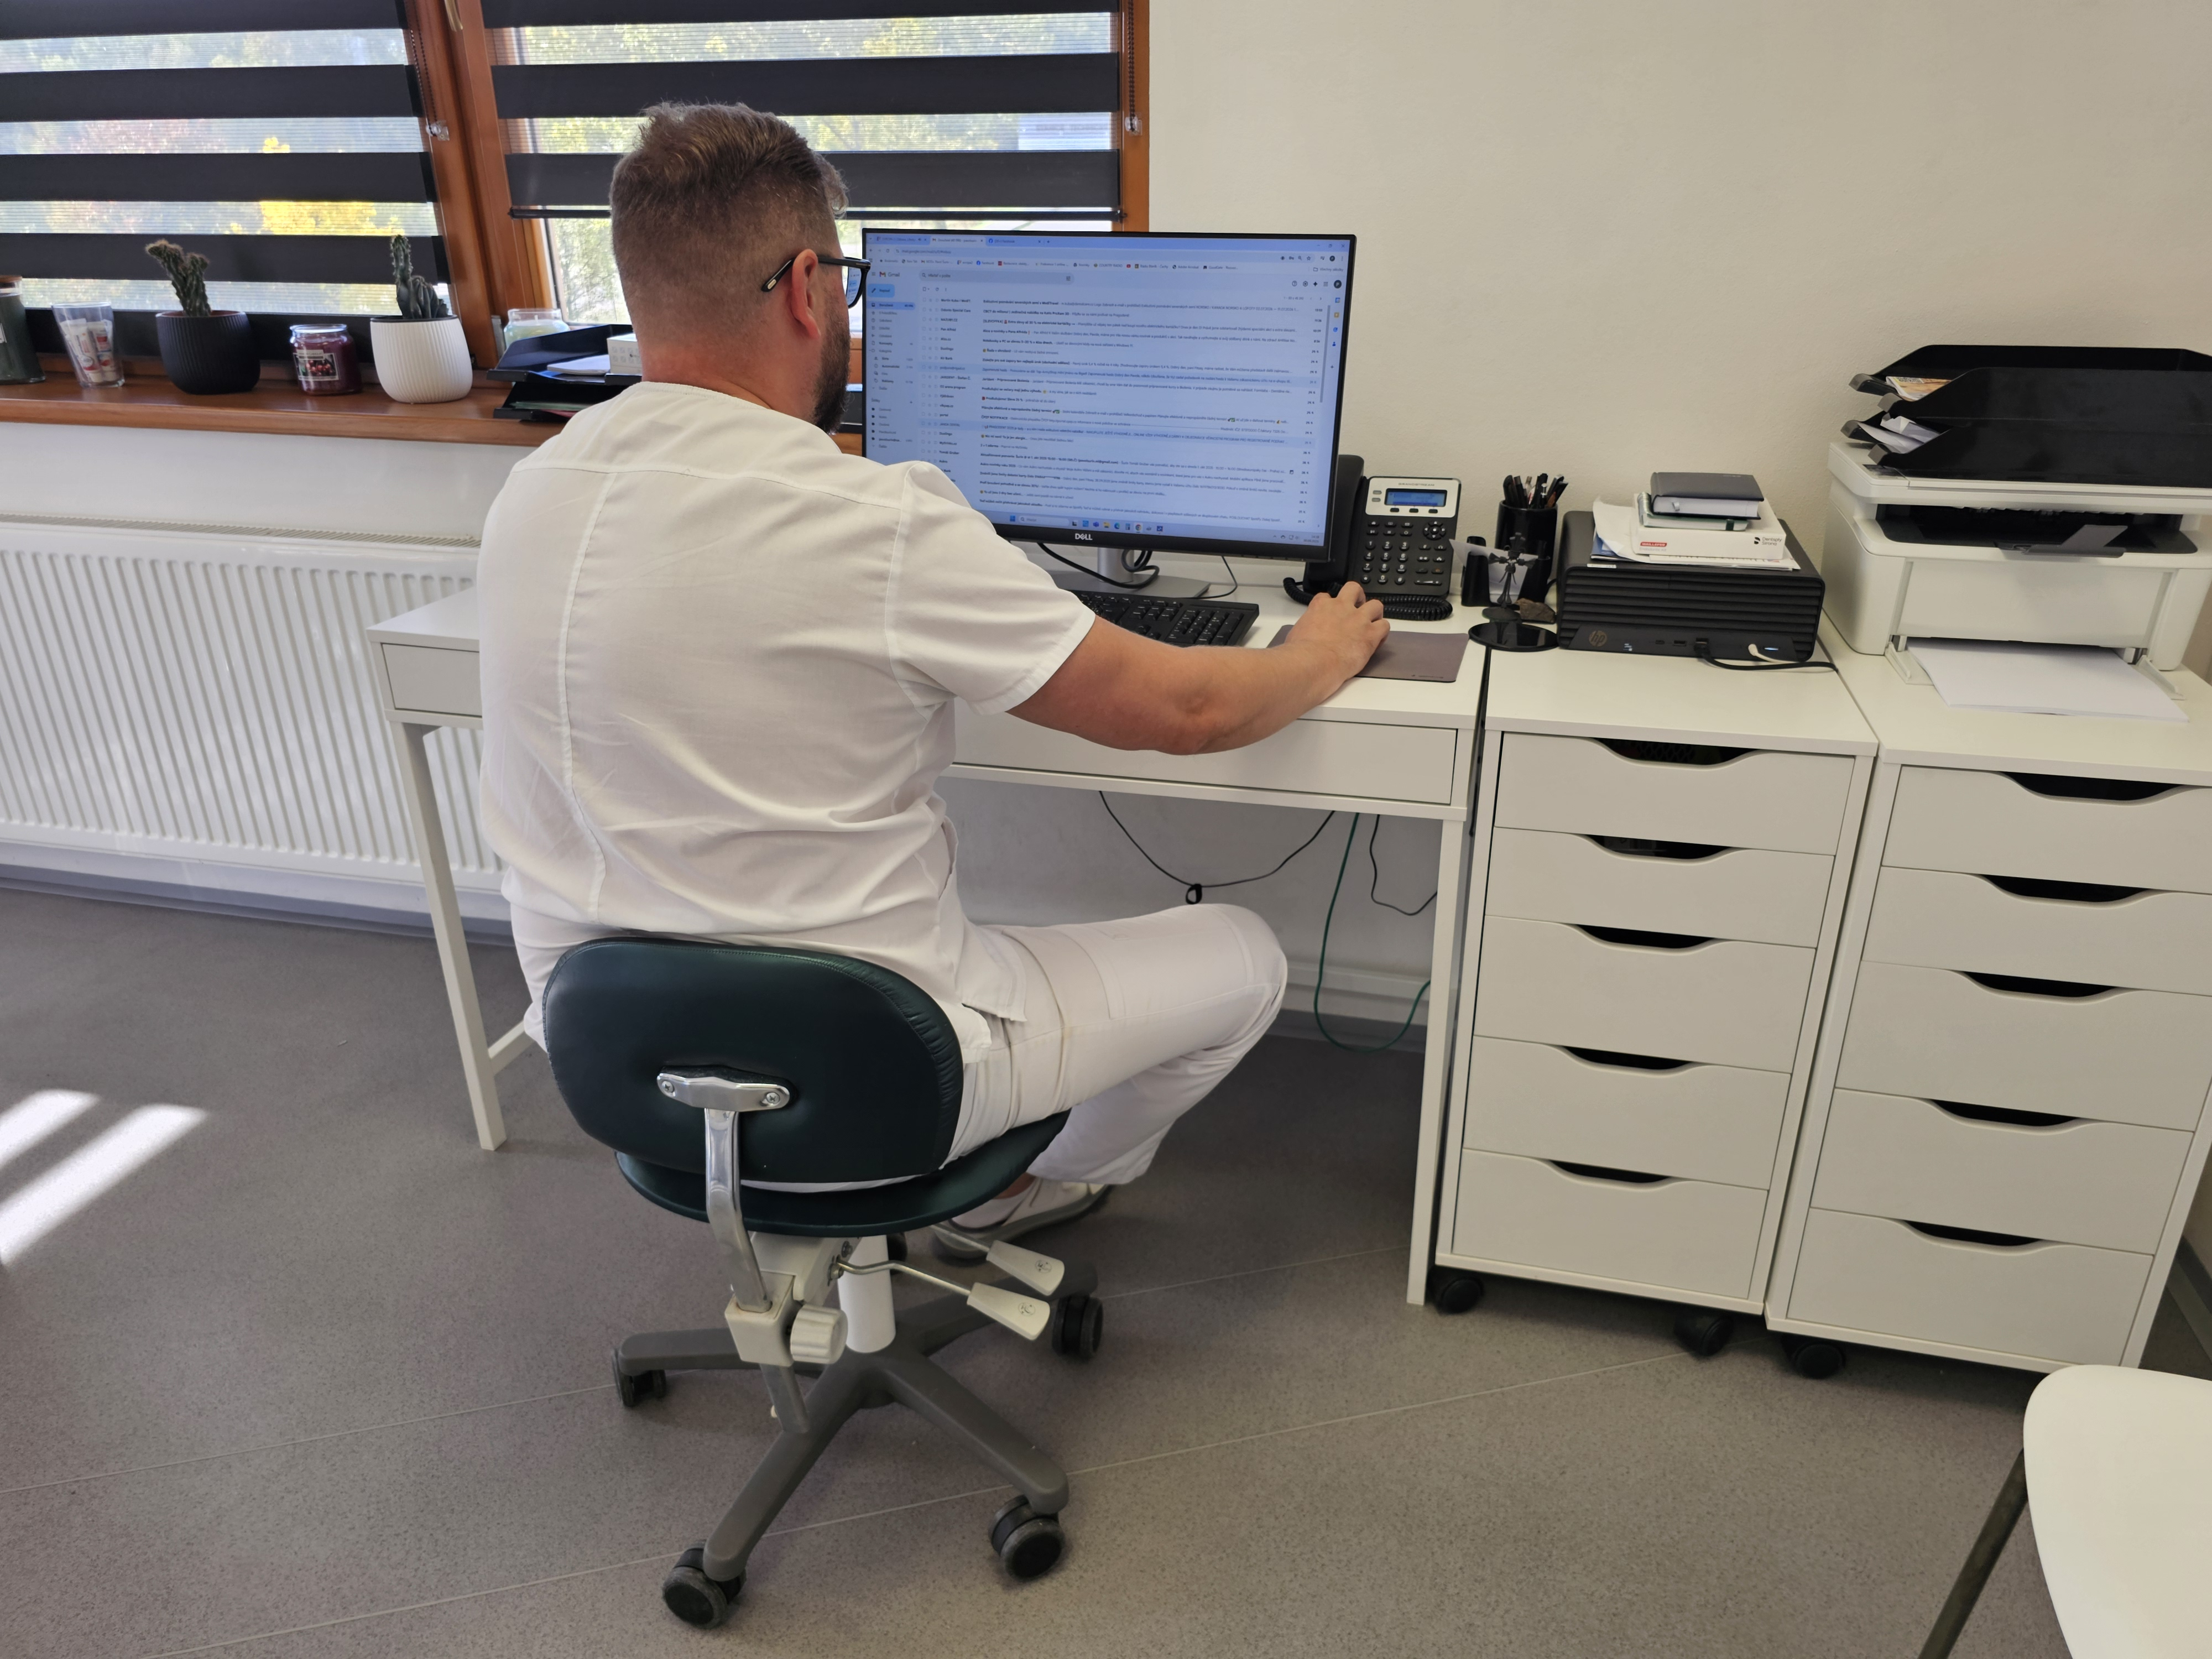
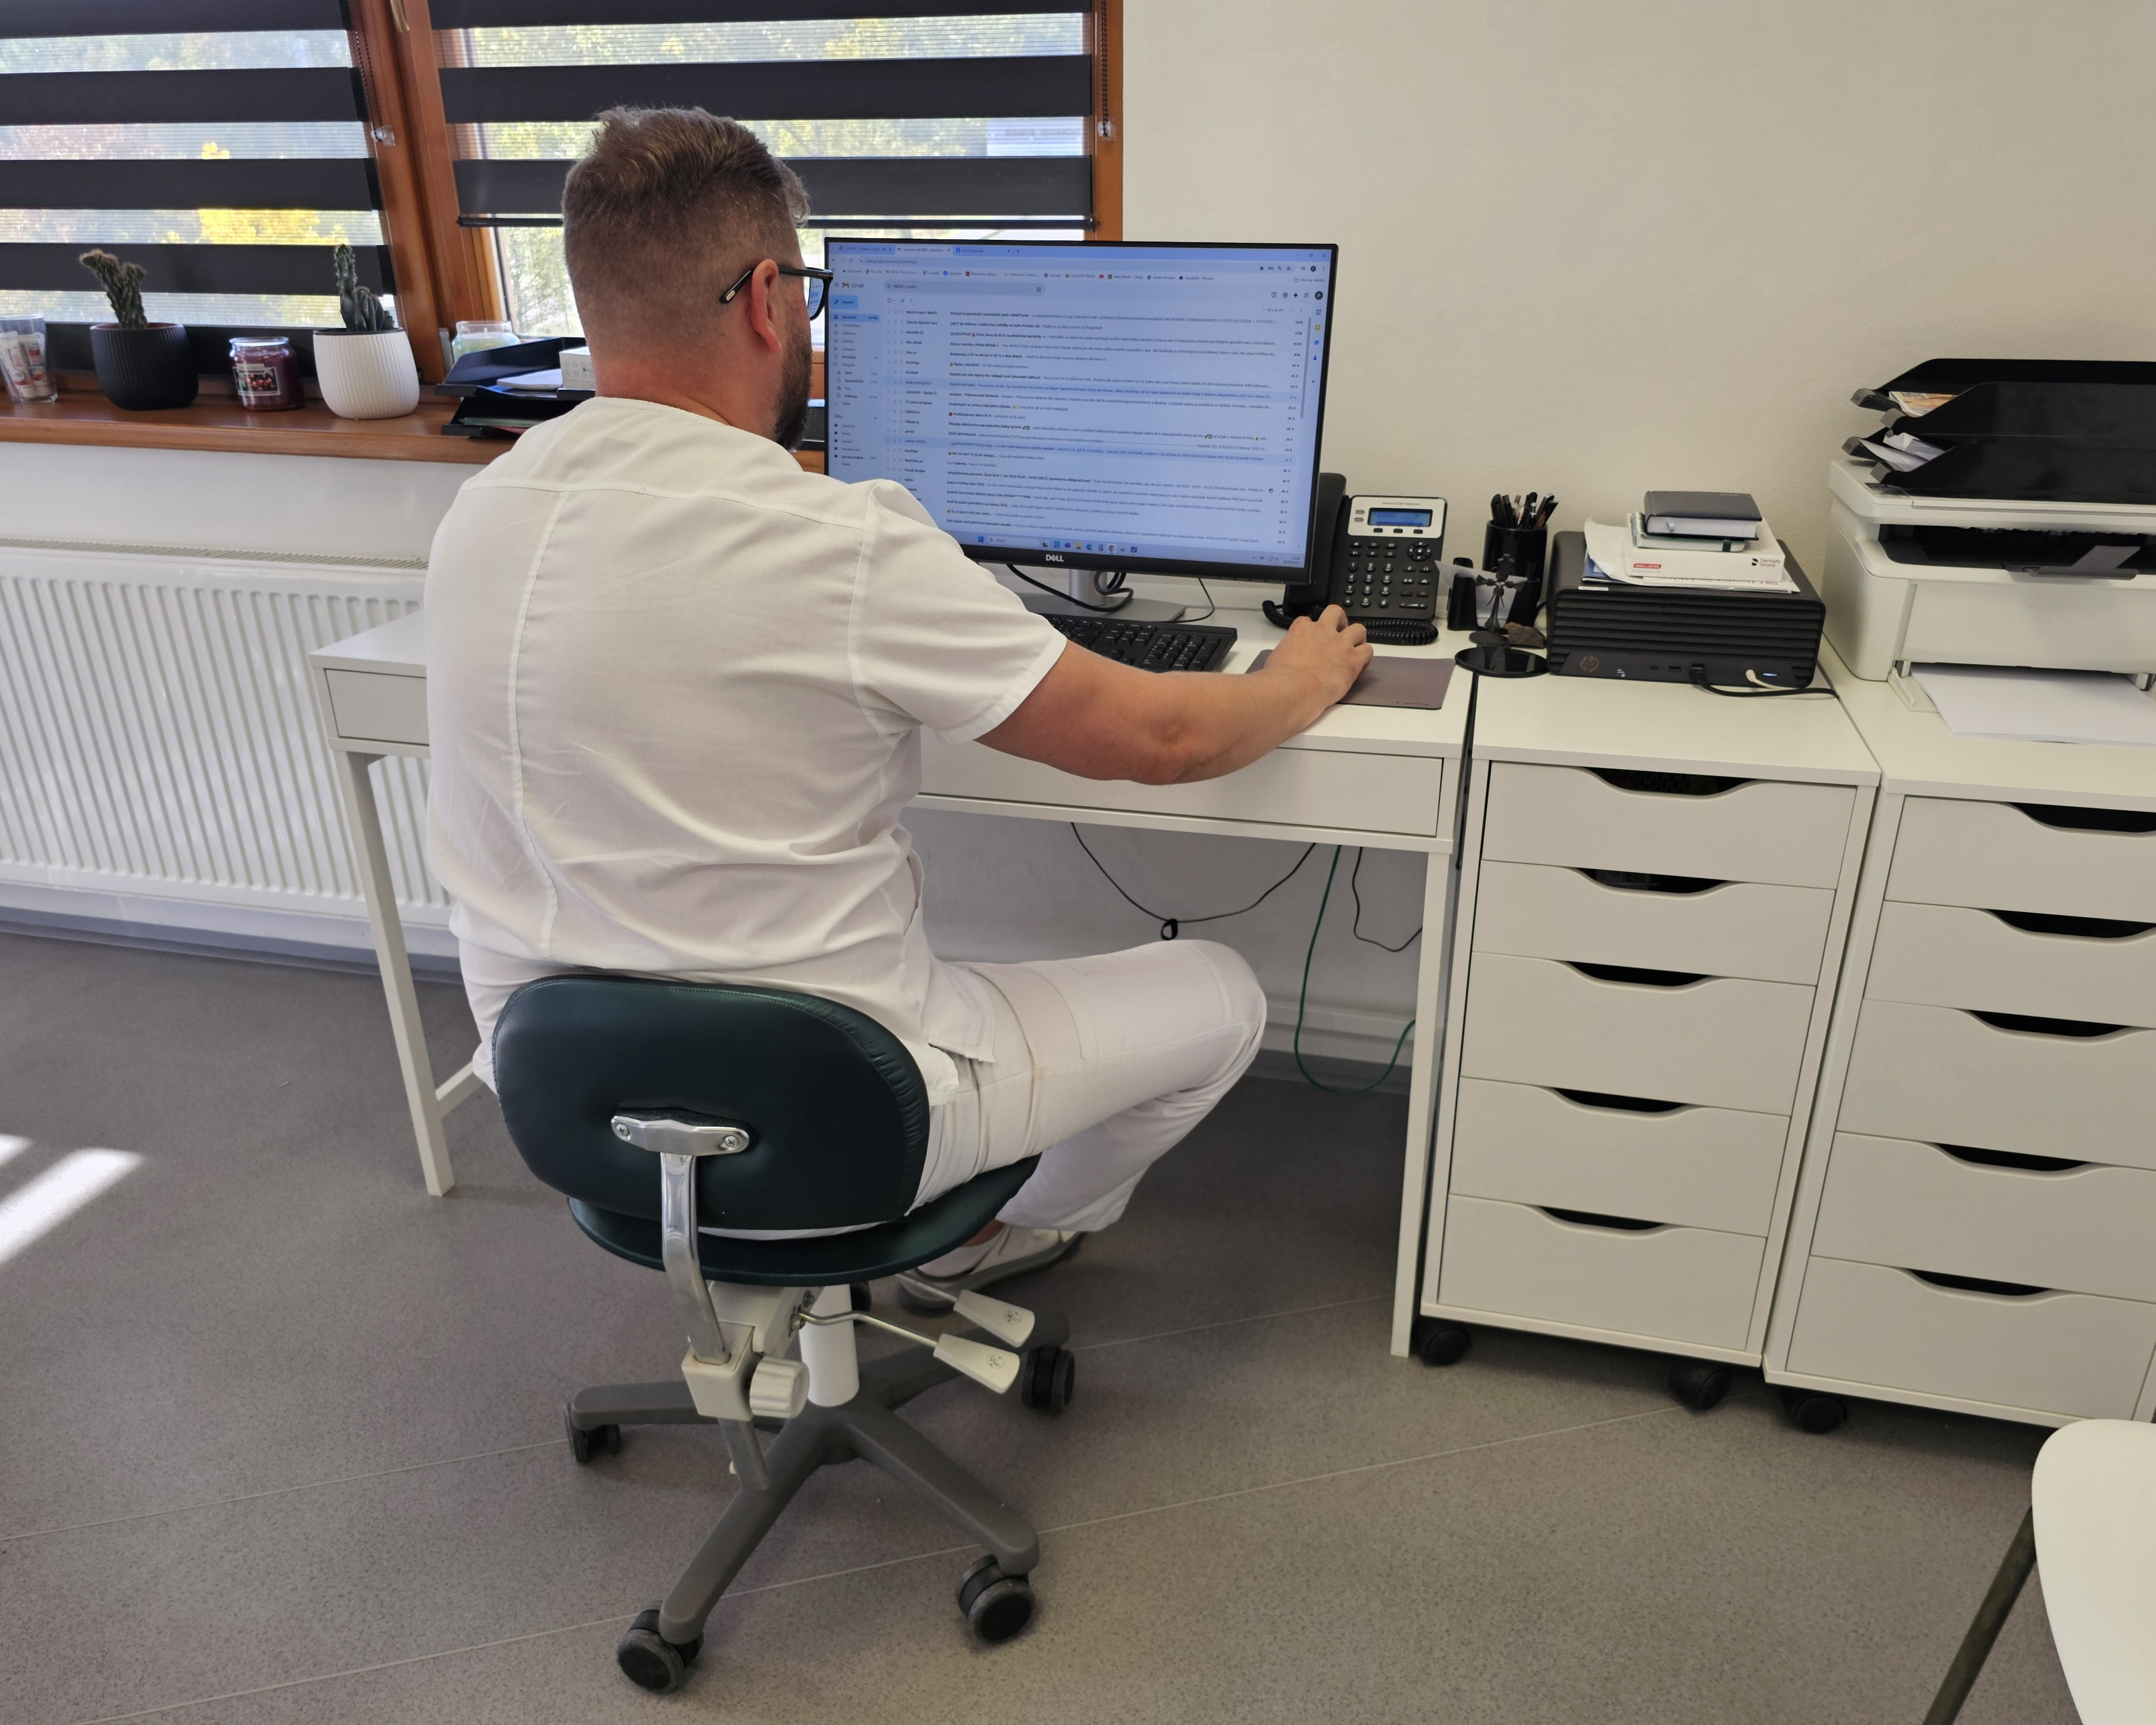
foto

diff --git a/index.html b/index.html
@@ -223,6 +223,7 @@
             .nav-links {
                 gap: 1rem;
             }
+            
         }
 
         /* Планшетная адаптация */
@@ -278,6 +279,7 @@
             .scrolled .container .nav-logo .logo-circle .logo-text {
                 font-size: 0.9rem;
             }
+            
         }
 
 
@@ -741,12 +743,13 @@
         .image-container img.active {
             opacity: 1;
         }
+        
 
         .slider-buttons {
             position: absolute;
             bottom: 0.5rem;
             /* отступ снизу */
-            left: 50%;
+            left: 50%;         
             /* ставим по центру */
             transform: translateX(-50%);
             margin-bottom: 1rem;
@@ -765,13 +768,12 @@
             border-radius: 50%;
             /* делаем круг */
             border: none;
-            background: linear-gradient(to bottom, rgb(90, 45, 0), rgb(58, 29, 0));
+            background: linear-gradient(to bottom, rgb(90, 45, 0, 0.3), rgb(58, 29, 0, 0.3));
             transform: translateY(-3px);
             color: rgba(255, 255, 255, 0.8);
             /* цвет стрелок */
             font-size: 1.2rem;
-            cursor: pointer;
-            
+            cursor: pointer;       
             
             font-weight: 600;
             /* максимально жирные стрелки */
@@ -1557,7 +1559,7 @@ mask-size: cover;
     .slider-buttons {
         bottom: 1rem;
         gap: 0.7rem;
-    }
+            }
     
     .slider-buttons button {
         width: 45px;
@@ -1640,7 +1642,7 @@ mask-size: cover;
         width: 40px;
         height: 40px;
         font-size: 1rem;
-    }
+          }
     
     .hero-content h1 {
         font-size: 1.6rem;
@@ -1779,19 +1781,19 @@ mask-size: cover;
                 <!-- Текстовая часть -->
                 <div class="text-container">
                     <div class="text-slide active">
-                        <h2>O moderní stomatologii</h2>
-                        <p>Současná stomatologie představuje fascinující spojení vědy, technologie a umění. V naší
-                            klinice využíváme nejnovější digitální technologie.</p>
-                    </div>
-                    <div class="text-slide">
-                        <h2>Dentální hygiena</h2>
-                        <p>Zdravý úsměv začíná u čistých zubů. Pravidelná profesionální péče u specialisty předchází vzniku kazů i zánětů, odstraňuje pigmentace a je tím nejlepším základem pro dlouhodobé zdraví celých úst.</p>
-                    </div>
-                    <div class="text-slide">
-                        <h2>Naše filozofie</h2>
-                        <p>Naše filozofie spočívá v preventivní péči a zachování přírodních zubů kdykoli je to možné.
-                            Transparentní komunikace a férové ceny jsou pro nás klíčové.</p>
-                    </div>
+                       <h2>O stomatologii</h2>
+    <p>Současná stomatologie představuje fascinující spojení vědy, moderní technologie a umění. Na naší klinice využíváme nejnovější digitální postupy pro dosažení dokonalého výsledku a vašeho maximálního pohodlí.</p>
+</div>
+
+<div class="text-slide">
+    <h2>Dentální hygiena</h2>
+    <p>Zdravý úsměv vždy začíná u čistých zubů. Pravidelná profesionální péče u specialisty účinně předchází vzniku kazů i zánětů, odstraňuje pigmentace a je nejlepším základem pro dlouhodobé zdraví celých úst.</p>
+</div>
+
+<div class="text-slide">
+    <h2>Naše filozofie</h2>
+    <p>Naše hlavní filozofie spočívá v precizní preventivní péči a zachování přírodních zubů, kdykoli je to možné. Transparentní komunikace, lidský přístup a férové ceny jsou pro nás naprostým standardem.</p>
+</div>
 
                     <!-- Кнопки управления -->
                     <div class="slider-buttons">
@@ -1802,9 +1804,9 @@ mask-size: cover;
 
                 <!-- Фото -->
                 <div class="image-container">
-                    <img class="image-slide active" src="./picture/ordinacie1.jpg" alt="ordinace 1">
-                    <img class="image-slide" src="./picture/ordinacie2.jpg" alt="ordinace 2">
-                    <img class="image-slide" src="./picture/ordinacie3.jpg" alt="ordinace 3">
+                    <img class="image-slide equal-img active" src="./picture/ordinacie1.jpg" alt="ordinace 1">
+                    <img class="image-slide equal-img" src="./picture/ordinacie2.jpg" alt="ordinace 2">
+                    <img class="image-slide equal-img" src="./picture/ordinacie3.jpg" alt="ordinace 3">
                 </div>
             </div>
         </section>